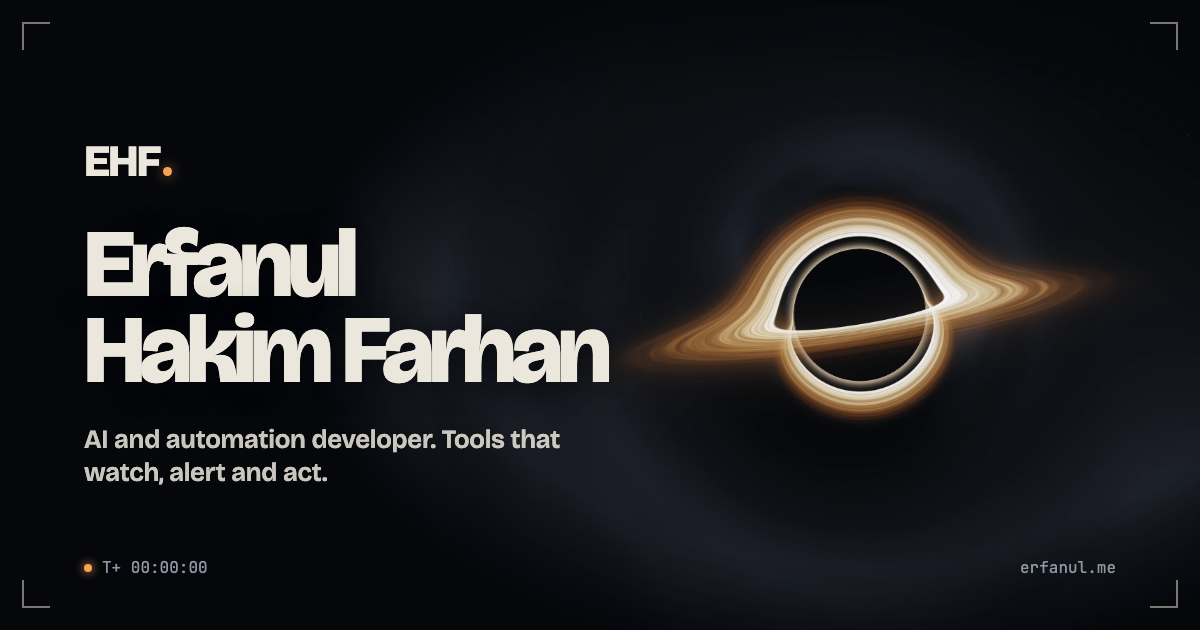
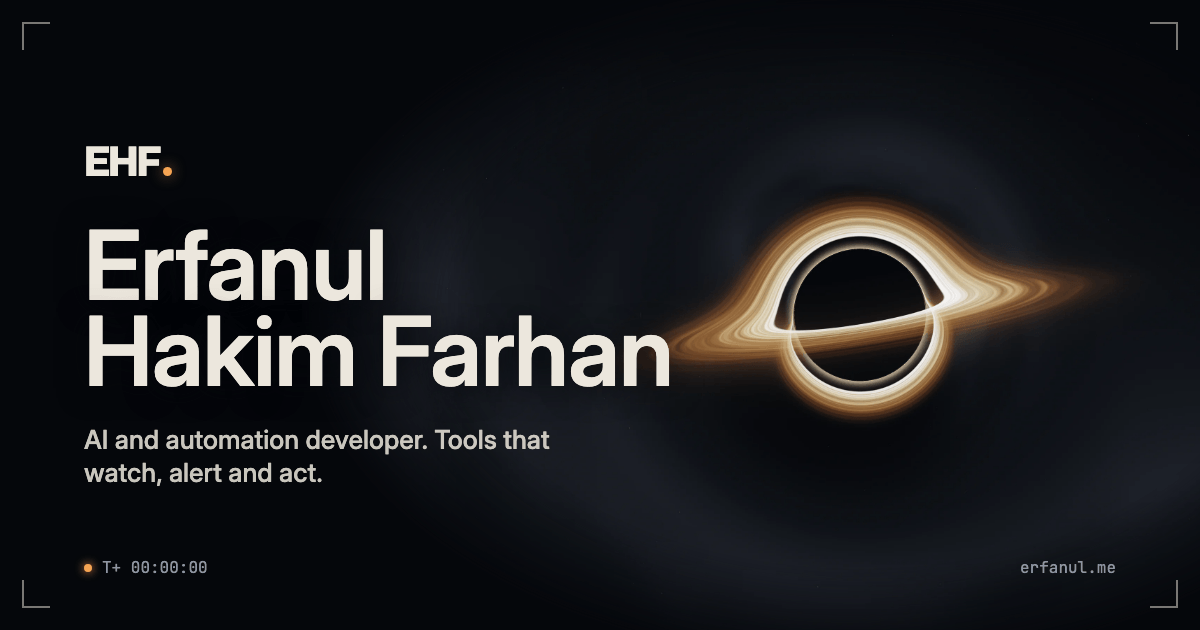
Set the site in Inter so the name's letters no longer touch
The name and headings move from Bricolage Grotesque 800 to Inter 600 with
light tracking (-0.01em on display titles, none on smaller ones). Checked
letter by letter: no pair touches anywhere except Inter's own f-t crossbar
join. The EHF mark keeps Bricolage, and the amber star is re-fitted to
Inter's i.

The name's smallest size now scales with the screen, so it fits on 320 and
360 wide phones. Narrow layouts that ran out of room are fixed too: the
Delta domain in the log wraps after its dots, catalogue tiles move their
number below the name, and sideways phones stack a frame's number above
its name. The link preview image uses the new type.

Changed region(s): [[0.0617, 0.3619, 0.555, 0.6333], [0.0617, 0.6635, 0.4625, 0.7841]]

diff --git a/src/styles.css b/src/styles.css
@@ -21,7 +21,9 @@
   /* The accent for whatever ground an element sits on. */
   --accent: var(--amber);
 
-  --font-sans: 'Bricolage Grotesque Variable', ui-sans-serif, system-ui, -apple-system, 'Segoe UI', sans-serif;
+  --font-sans: 'Inter Variable', ui-sans-serif, system-ui, -apple-system, 'Segoe UI', sans-serif;
+  /* The EHF mark keeps its own heavy, tightly set face: a logo, not text. */
+  --font-brand: 'Bricolage Grotesque Variable', ui-sans-serif, system-ui, sans-serif;
   --font-mono: 'JetBrains Mono Variable', ui-monospace, SFMono-Regular, Menlo, monospace;
 
   --gutter: clamp(1.25rem, 5vw, 4.5rem);
@@ -223,6 +225,7 @@
   .boot__mark {
     position: relative;
     margin: 0;
+    font-family: var(--font-brand);
     font-size: clamp(5rem, 15vw, 9.5rem);
     font-weight: 800;
     line-height: 1;
@@ -407,6 +410,7 @@
     position: relative;
     display: inline-flex;
     align-items: baseline;
+    font-family: var(--font-brand);
     font-size: 1.45rem;
     font-weight: 800;
     letter-spacing: -0.05em;
@@ -580,8 +584,7 @@
     padding: 0.85rem 1rem;
     border-radius: 0.9rem;
     font-size: 1.35rem;
-    font-weight: 700;
-    letter-spacing: -0.03em;
+    font-weight: 600;
   }
   .hud__sheet-link[aria-current='true'] {
     color: var(--accent);
@@ -777,10 +780,10 @@
   }
   .hero__name {
     margin: 0.9rem 0 0;
-    font-size: clamp(3.3rem, 13.5vw, 9rem);
-    font-weight: 800;
+    font-size: clamp(2.75rem, 13.5vw, 9rem);
+    font-weight: 600;
     line-height: 0.9;
-    letter-spacing: -0.055em;
+    letter-spacing: -0.01em;
     color: var(--light);
   }
   .hero__line {
@@ -788,23 +791,23 @@
     white-space: nowrap;
   }
   /* The dot on the i is a small amber star. The letter's own dot is clipped
-     off (it sits 0.06em to 0.21em down; the stem starts below 0.24em), and the
-     star is drawn where it was: 0.116em across and 0.137em down. */
+     off (it sits 0.08em to 0.22em down; the stem starts below 0.29em), and the
+     star is drawn where it was: 0.115em across and 0.149em down. */
   .hero__i {
     position: relative;
     display: inline-block;
   }
   .hero__i > span {
     display: inline-block;
-    clip-path: inset(0.24em -0.2em -0.2em -0.2em);
+    clip-path: inset(0.255em -0.2em -0.2em -0.2em);
   }
   .hero__i::after {
     content: '';
     position: absolute;
-    left: 0.116em;
-    top: 0.137em;
-    width: 0.165em;
-    height: 0.165em;
+    left: 0.115em;
+    top: 0.149em;
+    width: 0.158em;
+    height: 0.158em;
     border-radius: 50%;
     background: radial-gradient(circle, #fff3dc 0 30%, var(--amber) 62%);
     box-shadow:
@@ -843,7 +846,7 @@
   @media (min-width: 900px) and (min-aspect-ratio: 21/20) {
     .hero__copy {
       justify-content: center;
-      max-width: min(62rem, 60vw);
+      max-width: min(65rem, 60vw);
       padding-top: 0;
     }
     .hero__name {
@@ -918,9 +921,9 @@
   .reel__title {
     margin: 1rem 0 0;
     font-size: clamp(2.4rem, 4.4vw, 4.6rem);
-    font-weight: 800;
+    font-weight: 600;
     line-height: 0.98;
-    letter-spacing: -0.05em;
+    letter-spacing: -0.01em;
     text-wrap: balance;
   }
   .reel__hint {
@@ -932,6 +935,7 @@
   .frame {
     flex: none;
     width: min(60vw, 62rem, calc((100svh - 17rem) * 1.5));
+    container-type: inline-size;
     --focus: 1;
   }
   .frame__shot {
@@ -985,15 +989,28 @@
   .frame__name {
     margin: 0;
     font-size: clamp(1.6rem, 2.6vw, 2.5rem);
-    font-weight: 700;
+    font-weight: 600;
     line-height: 1.05;
-    letter-spacing: -0.04em;
   }
   .frame__line {
     margin: 0.35rem 0 0;
     max-width: 38rem;
     color: rgba(236, 231, 221, 0.72);
     font-size: 1rem;
+  }
+  /* A frame too narrow for two columns (a phone held sideways): the number
+     and status sit in a row above the name instead of beside it. */
+  @container (max-width: 16rem) {
+    .frame__caption {
+      grid-template-columns: minmax(0, 1fr);
+    }
+    .frame__meta {
+      grid-row: auto;
+      grid-auto-flow: column;
+      justify-content: start;
+      column-gap: 1rem;
+      margin-bottom: 0.45rem;
+    }
   }
   .reel__end {
     flex: none;
@@ -1005,9 +1022,8 @@
   .reel__end-title {
     margin: 0;
     font-size: clamp(1.8rem, 2.8vw, 2.8rem);
-    font-weight: 700;
+    font-weight: 600;
     line-height: 1.02;
-    letter-spacing: -0.045em;
   }
   .reel__bar {
     position: absolute;
@@ -1085,9 +1101,9 @@
   .roll__title {
     margin: 1rem 0 0;
     font-size: clamp(2.2rem, 4.4vw, 4.2rem);
-    font-weight: 800;
+    font-weight: 600;
     line-height: 1;
-    letter-spacing: -0.05em;
+    letter-spacing: -0.01em;
     text-wrap: balance;
   }
   .roll__grid {
@@ -1110,6 +1126,7 @@
     text-align: left;
     cursor: pointer;
     color: var(--light);
+    container-type: inline-size;
   }
   .tile__frame {
     position: relative;
@@ -1143,9 +1160,8 @@
     align-items: flex-end;
     padding: 1rem;
     font-size: clamp(1.3rem, 2vw, 1.75rem);
-    font-weight: 800;
+    font-weight: 600;
     line-height: 0.95;
-    letter-spacing: -0.045em;
     color: rgba(236, 231, 221, 0.85);
     background:
       radial-gradient(circle, rgba(143, 150, 163, 0.16) 1px, transparent 1.5px) 0 0 / 14px 14px,
@@ -1187,8 +1203,7 @@
   .tile__name {
     grid-row: 2;
     font-size: 1.05rem;
-    font-weight: 700;
-    letter-spacing: -0.02em;
+    font-weight: 600;
     line-height: 1.2;
     transition: color 0.25s;
   }
@@ -1199,6 +1214,19 @@
     grid-column: 1 / -1;
     font-size: 0.8125rem;
     color: var(--haze);
+  }
+  /* In a narrow tile the number drops down beside the kind, so a long word in
+     the name (Automation) gets the whole width. */
+  @container (max-width: 10.5rem) {
+    .tile__name {
+      grid-column: 1 / -1;
+    }
+    .tile__no {
+      grid-row: 3;
+    }
+    .tile__kind {
+      grid-column: 1;
+    }
   }
   @media (max-width: 1100px) {
     .roll__grid {
@@ -1319,9 +1347,9 @@
   }
   .project__card-name {
     font-size: clamp(2.2rem, 5vw, 4rem);
-    font-weight: 800;
+    font-weight: 600;
     line-height: 0.95;
-    letter-spacing: -0.05em;
+    letter-spacing: -0.01em;
     color: var(--light);
   }
   .project__card-dot {
@@ -1340,9 +1368,9 @@
   .project__title {
     margin: 0;
     font-size: clamp(2rem, 3.4vw, 3rem);
-    font-weight: 800;
+    font-weight: 600;
     line-height: 1;
-    letter-spacing: -0.05em;
+    letter-spacing: -0.01em;
   }
   .project__desc {
     margin: 1.1rem 0 0;
@@ -1673,7 +1701,7 @@
   }
   .tk-head {
     color: #f6a453;
-    font-weight: 700;
+    font-weight: 600;
   }
   /* Typing: each line is uncovered one character at a time. The font is
      monospaced, so one step of the clip is exactly one character. */
@@ -1852,9 +1880,9 @@
   .modes__title {
     margin: 0.9rem 0 0;
     font-size: clamp(2.4rem, 4.6vw, 4.6rem);
-    font-weight: 800;
+    font-weight: 600;
     line-height: 1;
-    letter-spacing: -0.05em;
+    letter-spacing: -0.01em;
   }
   .dial {
     grid-area: dial;
@@ -1956,9 +1984,8 @@
   .mode__title {
     margin: 1rem 0 0;
     font-size: clamp(1.6rem, 2.6vw, 2.4rem);
-    font-weight: 700;
+    font-weight: 600;
     line-height: 1.08;
-    letter-spacing: -0.04em;
   }
   .mode__line {
     max-width: 28rem;
@@ -2035,9 +2062,9 @@
   .log__title {
     margin: 1rem 0 0;
     font-size: clamp(2.4rem, 4.6vw, 4.6rem);
-    font-weight: 800;
+    font-weight: 600;
     line-height: 1;
-    letter-spacing: -0.05em;
+    letter-spacing: -0.01em;
   }
   .log__sub {
     margin: 1rem 0 0;
@@ -2114,9 +2141,9 @@
   .entry__title {
     margin: 0;
     font-size: clamp(1.2rem, 2.1vw, 1.55rem);
-    font-weight: 700;
+    font-weight: 600;
     line-height: 1.25;
-    letter-spacing: -0.03em;
+    overflow-wrap: break-word;
   }
   .entry__title a {
     transition: color 0.25s;
@@ -2233,9 +2260,9 @@
   .contact__title {
     margin: 1rem 0 0;
     font-size: clamp(3rem, 6.8vw, 6.6rem);
-    font-weight: 800;
+    font-weight: 600;
     line-height: 0.95;
-    letter-spacing: -0.055em;
+    letter-spacing: -0.01em;
   }
   .contact__title span {
     display: block;
@@ -2365,7 +2392,7 @@
     border: 0;
     background: none;
     font-size: 0.9375rem;
-    font-weight: 700;
+    font-weight: 600;
     color: var(--ink);
     cursor: pointer;
   }
@@ -2428,6 +2455,7 @@
     margin: 0 0 1rem -0.04em;
     padding-right: 0.2em;
     font-size: clamp(6rem, 24vw, 21rem);
+    font-family: var(--font-brand);
     font-weight: 800;
     line-height: 0.78;
     /* Tight enough that H and F overlap a little: touching edges would leave a hairline seam in the glow. */
@@ -2477,8 +2505,7 @@
   }
   .footer__name {
     margin: 0;
-    font-weight: 700;
-    letter-spacing: -0.02em;
+    font-weight: 600;
   }
   .footer__links {
     display: flex;
@@ -2619,7 +2646,7 @@
   .chat__title {
     margin: 0;
     font-size: 1rem;
-    font-weight: 700;
+    font-weight: 600;
   }
   .chat__sub {
     margin: 0.15rem 0 0;

diff --git a/src/components/Log.tsx b/src/components/Log.tsx
@@ -8,6 +8,11 @@ type Graph = { height: number; nodes: number[] };
 // video thumbnail) is shown whole inside it rather than cropped.
 const fills = (w: number, h: number) => Math.abs(w / h - 1.5) < 0.1;
 
+// A domain in a title (deltaspeed.erfanul.me) may wrap after its dots, so a
+// narrow column breaks it there instead of letting it run into the thumbnail.
+const breakAfterDots = (text: string) =>
+  text.split(/(?<=\.)(?=[a-z])/i).flatMap((part, i) => (i ? [<wbr key={i} />, part] : [part]));
+
 /**
  * The mission log: releases newest first, threaded on a git graph that draws
  * itself as you scroll. On wide screens a preview beside the list shows the
@@ -140,7 +145,7 @@ export function Log() {
               <div className="entry__body">
                 <h3 className="entry__title">
                   <a href={r.href} target="_blank" rel="noopener noreferrer">
-                    {r.title}
+                    {breakAfterDots(r.title)}
                   </a>
                 </h3>
                 <p className="entry__meta">

diff --git a/src/main.tsx b/src/main.tsx
@@ -1,5 +1,6 @@
 import { StrictMode } from 'react';
 import { createRoot } from 'react-dom/client';
+import '@fontsource-variable/inter/opsz.css';
 import '@fontsource-variable/bricolage-grotesque/opsz.css';
 import '@fontsource-variable/jetbrains-mono/wght.css';
 import 'lenis/dist/lenis.css';
